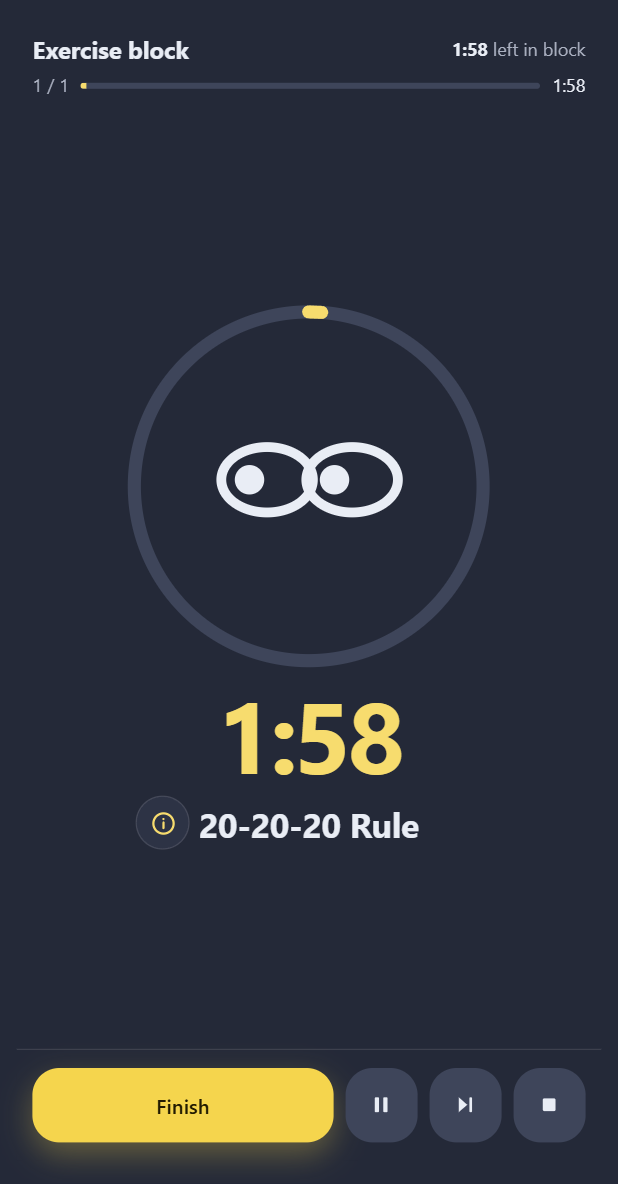
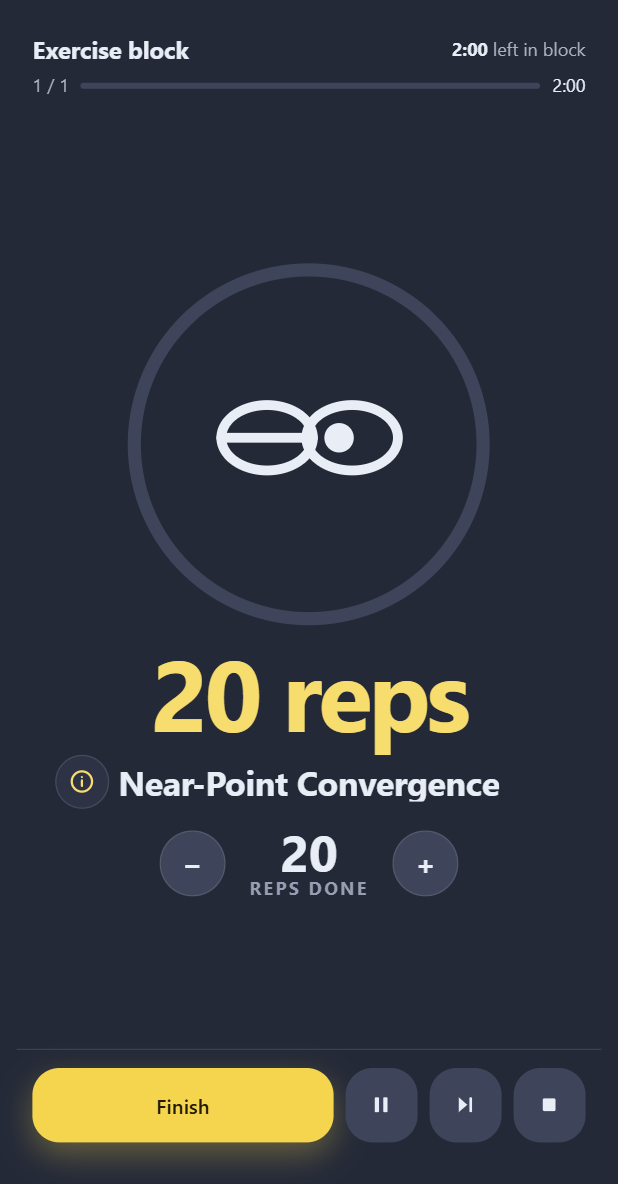
Flag dropdown for language; snack shots with figures; same eye-rest move per theme
The language link becomes a details menu with inline SVG flags; the FAQ
styles are scoped to .faq so they no longer leak into it. Snack shots are
captured without CDP so the exercise figure renders.

diff --git a/index.html b/index.html
@@ -28,7 +28,13 @@
     <nav>
       <a href="#features">Features</a>
       <a href="#faq">FAQ</a>
-      <a class="lang" href="index.es.html" lang="es" hreflang="es">Español</a>
+      <details class="lang-menu">
+        <summary aria-label="Language: English"><svg class="flag" viewBox="0 0 60 30" aria-hidden="true"><clipPath id="gbcs"><path d="M0 0v30h60V0z"/></clipPath><clipPath id="gbts"><path d="M30 15h30v15zv15H0zH0V0zV0h30z"/></clipPath><g clip-path="url(#gbcs)"><path d="M0 0v30h60V0z" fill="#012169"/><path d="M0 0l60 30m0-30L0 30" stroke="#fff" stroke-width="6"/><path d="M0 0l60 30m0-30L0 30" clip-path="url(#gbts)" stroke="#C8102E" stroke-width="4"/><path d="M30 0v30M0 15h60" stroke="#fff" stroke-width="10"/><path d="M30 0v30M0 15h60" stroke="#C8102E" stroke-width="6"/></g></svg><span>EN</span><svg class="chev" viewBox="0 0 24 24" fill="none" stroke="currentColor" stroke-width="2" stroke-linecap="round" stroke-linejoin="round" aria-hidden="true"><path d="m6 9 6 6 6-6"/></svg></summary>
+        <ul>
+          <li><a href="index.html" lang="en" hreflang="en" aria-current="page"><svg class="flag" viewBox="0 0 60 30" aria-hidden="true"><clipPath id="gbc"><path d="M0 0v30h60V0z"/></clipPath><clipPath id="gbt"><path d="M30 15h30v15zv15H0zH0V0zV0h30z"/></clipPath><g clip-path="url(#gbc)"><path d="M0 0v30h60V0z" fill="#012169"/><path d="M0 0l60 30m0-30L0 30" stroke="#fff" stroke-width="6"/><path d="M0 0l60 30m0-30L0 30" clip-path="url(#gbt)" stroke="#C8102E" stroke-width="4"/><path d="M30 0v30M0 15h60" stroke="#fff" stroke-width="10"/><path d="M30 0v30M0 15h60" stroke="#C8102E" stroke-width="6"/></g></svg>English</a></li>
+          <li><a href="index.es.html" lang="es" hreflang="es"><svg class="flag" viewBox="0 0 60 40" aria-hidden="true"><path d="M0 0h60v40H0z" fill="#AA151B"/><path d="M0 10h60v20H0z" fill="#F1BF00"/></svg>Español</a></li>
+        </ul>
+      </details>
       <button class="theme-toggle" type="button" aria-label="Dark theme" aria-pressed="false">
         <svg class="moon" viewBox="0 0 24 24" fill="none" stroke="currentColor" stroke-width="2" stroke-linecap="round" stroke-linejoin="round" aria-hidden="true"><path d="M21 12.8A9 9 0 1 1 11.2 3a7 7 0 0 0 9.8 9.8z"/></svg>
         <svg class="sun" viewBox="0 0 24 24" fill="none" stroke="currentColor" stroke-width="2" stroke-linecap="round" stroke-linejoin="round" aria-hidden="true"><circle cx="12" cy="12" r="4"/><path d="M12 2v2M12 20v2M4.9 4.9l1.4 1.4M17.7 17.7l1.4 1.4M2 12h2M20 12h2M4.9 19.1l1.4-1.4M17.7 6.3l1.4-1.4"/></svg>
@@ -101,8 +107,8 @@
         </ul>
       </div>
       <div class="shot">
-        <img class="phone light-only" src="img/en/light/snack.png" width="618" height="1184" loading="lazy" alt="The snack screen: a deep squat for 60 seconds, a swap button, the Bite, Plate and À la carte options, and Start.">
-        <img class="phone dark-only" src="img/en/dark/snack.png" width="618" height="1184" loading="lazy" alt="The snack screen: a deep squat for 60 seconds, a swap button, the Bite, Plate and À la carte options, and Start.">
+        <img class="phone light-only" src="img/en/light/snack.png" width="618" height="1184" loading="lazy" alt="The snack screen: shoulder CARs for 60 seconds, a swap button, the Bite, Plate and À la carte options, and Start.">
+        <img class="phone dark-only" src="img/en/dark/snack.png" width="618" height="1184" loading="lazy" alt="The snack screen: a walking figure-4 for 60 seconds, a swap button, the Bite, Plate and À la carte options, and Start.">
       </div>
     </div>
 
@@ -168,8 +174,8 @@
         </ul>
       </div>
       <div class="shot">
-        <img class="phone light-only" src="img/en/light/eye-rest.png" width="618" height="1184" loading="lazy" alt="An eye-rest block running: deliberate blinking, 60 reps.">
-        <img class="phone dark-only" src="img/en/dark/eye-rest.png" width="618" height="1184" loading="lazy" alt="An eye-rest block running: deliberate blinking, 60 reps.">
+        <img class="phone light-only" src="img/en/light/eye-rest.png" width="618" height="1184" loading="lazy" alt="An eye-rest block running: near-point convergence, 20 reps.">
+        <img class="phone dark-only" src="img/en/dark/eye-rest.png" width="618" height="1184" loading="lazy" alt="An eye-rest block running: near-point convergence, 20 reps.">
       </div>
     </div>
 

diff --git a/site.css b/site.css
@@ -130,6 +130,54 @@ p { text-wrap: pretty; }
   .btn.ghost:hover, .theme-toggle:hover { box-shadow: inset 0 0 0 1px var(--ink-3); }
 }
 
+/* Language menu: a native disclosure, so it opens with Enter/Space and works without JS */
+.lang-menu { position: relative; }
+.lang-menu summary {
+  display: flex;
+  align-items: center;
+  gap: 6px;
+  min-height: 40px;
+  padding: 0 10px;
+  border: 1px solid var(--line);
+  border-radius: 999px;
+  color: var(--ink);
+  font-weight: 600;
+  cursor: pointer;
+  list-style: none;
+}
+.lang-menu summary::-webkit-details-marker { display: none; }
+.flag { width: 20px; height: 14px; border-radius: 2px; flex: none; box-shadow: 0 0 0 1px rgb(0 0 0 / 0.1); }
+.chev { width: 16px; height: 16px; color: var(--ink-2); }
+.lang-menu[open] .chev { rotate: 180deg; }
+.lang-menu ul {
+  position: absolute;
+  right: 0;
+  top: calc(100% + 8px);
+  min-width: 160px;
+  margin: 0;
+  padding: 6px;
+  list-style: none;
+  border: 1px solid var(--line);
+  border-radius: 14px;
+  background: var(--card);
+  box-shadow: var(--card-shadow);
+}
+.lang-menu li a {
+  display: flex;
+  align-items: center;
+  gap: 10px;
+  min-height: 40px;
+  padding: 0 10px;
+  border-radius: 8px;
+  color: var(--ink);
+  text-decoration: none;
+}
+.lang-menu li a[aria-current="page"] { background: var(--surface-2); font-weight: 650; }
+@media (hover: hover) {
+  .lang-menu summary:hover { box-shadow: inset 0 0 0 1px var(--ink-3); }
+  .lang-menu li a:hover { background: var(--surface-2); }
+}
+
 /* Hero */
 .hero { display: grid; grid-template-columns: 1.1fr 0.9fr; gap: 48px; align-items: center; padding: 72px 0 56px; }
 .pill {
@@ -242,12 +290,12 @@ html:not(.js) .panel + .panel { margin-top: 72px; }
 
 /* FAQ */
 .faq { max-width: 760px; }
-details { border-bottom: 1px solid var(--line); padding: 18px 0; }
-summary { cursor: pointer; font-weight: 650; font-size: 1.125rem; list-style: none; display: flex; justify-content: space-between; gap: 16px; }
-summary::-webkit-details-marker { display: none; }
-summary::after { content: "+"; color: var(--accent-ink); font-size: 1.375rem; line-height: 1; }
-details[open] summary::after { content: "\2212"; }
-details p { margin: 10px 0 0; max-width: 65ch; color: var(--ink-2); }
+.faq details { border-bottom: 1px solid var(--line); padding: 18px 0; }
+.faq summary { cursor: pointer; font-weight: 650; font-size: 1.125rem; list-style: none; display: flex; justify-content: space-between; gap: 16px; }
+.faq summary::-webkit-details-marker { display: none; }
+.faq summary::after { content: "+"; color: var(--accent-ink); font-size: 1.375rem; line-height: 1; }
+.faq details[open] summary::after { content: "\2212"; }
+.faq details p { margin: 10px 0 0; max-width: 65ch; color: var(--ink-2); }
 
 /* Footer */
 footer { margin-top: 96px; padding: 40px 0 56px; border-top: 1px solid var(--line); font-size: 0.875rem; color: var(--ink-3); }
@@ -259,7 +307,7 @@ footer p { margin: 6px 0; max-width: 46em; }
 a:focus-visible, button:focus-visible, summary:focus-visible { outline: 2px solid var(--accent-ink); outline-offset: 3px; }
 
 @media (max-width: 820px) {
-  .top nav a:not(.btn):not(.lang) { display: none; }
+  .top nav > a:not(.btn) { display: none; }
   .hero, .panel { grid-template-columns: 1fr; gap: 36px; }
   .hero { padding: 48px 0 40px; }
   .tabs { grid-template-columns: repeat(3, 1fr); }
@@ -280,7 +328,10 @@ a:focus-visible, button:focus-visible, summary:focus-visible { outline: 2px soli
 }
 
 @media (max-width: 400px) {
-  .brand > span { display: none; }
+  .brand > span, .lang-menu summary > span { display: none; }
+  .lang-menu ul { right: auto; left: 0; }
+  .top .wrap { gap: 8px; }
+  .top nav { gap: 6px; }
 }
 
 @media (prefers-reduced-motion: reduce) { html { scroll-behavior: auto; } }

diff --git a/index.es.html b/index.es.html
@@ -28,7 +28,13 @@
     <nav>
       <a href="#features">Funciones</a>
       <a href="#faq">Preguntas</a>
-      <a class="lang" href="index.html" lang="en" hreflang="en">English</a>
+      <details class="lang-menu">
+        <summary aria-label="Idioma: español"><svg class="flag" viewBox="0 0 60 40" aria-hidden="true"><path d="M0 0h60v40H0z" fill="#AA151B"/><path d="M0 10h60v20H0z" fill="#F1BF00"/></svg><span>ES</span><svg class="chev" viewBox="0 0 24 24" fill="none" stroke="currentColor" stroke-width="2" stroke-linecap="round" stroke-linejoin="round" aria-hidden="true"><path d="m6 9 6 6 6-6"/></svg></summary>
+        <ul>
+          <li><a href="index.html" lang="en" hreflang="en"><svg class="flag" viewBox="0 0 60 30" aria-hidden="true"><clipPath id="gbc"><path d="M0 0v30h60V0z"/></clipPath><clipPath id="gbt"><path d="M30 15h30v15zv15H0zH0V0zV0h30z"/></clipPath><g clip-path="url(#gbc)"><path d="M0 0v30h60V0z" fill="#012169"/><path d="M0 0l60 30m0-30L0 30" stroke="#fff" stroke-width="6"/><path d="M0 0l60 30m0-30L0 30" clip-path="url(#gbt)" stroke="#C8102E" stroke-width="4"/><path d="M30 0v30M0 15h60" stroke="#fff" stroke-width="10"/><path d="M30 0v30M0 15h60" stroke="#C8102E" stroke-width="6"/></g></svg>English</a></li>
+          <li><a href="index.es.html" lang="es" hreflang="es" aria-current="page"><svg class="flag" viewBox="0 0 60 40" aria-hidden="true"><path d="M0 0h60v40H0z" fill="#AA151B"/><path d="M0 10h60v20H0z" fill="#F1BF00"/></svg>Español</a></li>
+        </ul>
+      </details>
       <button class="theme-toggle" type="button" aria-label="Tema oscuro" aria-pressed="false">
         <svg class="moon" viewBox="0 0 24 24" fill="none" stroke="currentColor" stroke-width="2" stroke-linecap="round" stroke-linejoin="round" aria-hidden="true"><path d="M21 12.8A9 9 0 1 1 11.2 3a7 7 0 0 0 9.8 9.8z"/></svg>
         <svg class="sun" viewBox="0 0 24 24" fill="none" stroke="currentColor" stroke-width="2" stroke-linecap="round" stroke-linejoin="round" aria-hidden="true"><circle cx="12" cy="12" r="4"/><path d="M12 2v2M12 20v2M4.9 4.9l1.4 1.4M17.7 17.7l1.4 1.4M2 12h2M20 12h2M4.9 19.1l1.4-1.4M17.7 6.3l1.4-1.4"/></svg>
@@ -101,8 +107,8 @@
         </ul>
       </div>
       <div class="shot">
-        <img class="phone light-only" src="img/es/light/snack.png" width="618" height="1184" loading="lazy" alt="La pantalla de snack: una sentadilla profunda de 60 segundos, el botón para cambiarla, las opciones Bocado, Ración y A la carta, y Empezar.">
-        <img class="phone dark-only" src="img/es/dark/snack.png" width="618" height="1184" loading="lazy" alt="La pantalla de snack: una sentadilla profunda de 60 segundos, el botón para cambiarla, las opciones Bocado, Ración y A la carta, y Empezar.">
+        <img class="phone light-only" src="img/es/light/snack.png" width="618" height="1184" loading="lazy" alt="La pantalla de snack: una oruga (inchworm) de 60 segundos, el botón para cambiarla, las opciones Bocado, Ración y A la carta, y Empezar.">
+        <img class="phone dark-only" src="img/es/dark/snack.png" width="618" height="1184" loading="lazy" alt="La pantalla de snack: una flexión con rodilla al codo de 60 segundos, el botón para cambiarla, las opciones Bocado, Ración y A la carta, y Empezar.">
       </div>
     </div>
 

diff --git a/site.js b/site.js
@@ -40,4 +40,18 @@
   });
 
   if (tabs.length) select(tabs[0], false);
+
+  // Close the language menu on Escape or a click outside it, returning focus on Escape.
+  var langMenu = document.querySelector('.lang-menu');
+  if (langMenu) {
+    document.addEventListener('click', function (e) {
+      if (langMenu.open && !langMenu.contains(e.target)) langMenu.open = false;
+    });
+    document.addEventListener('keydown', function (e) {
+      if (e.key === 'Escape' && langMenu.open) {
+        langMenu.open = false;
+        langMenu.querySelector('summary').focus();
+      }
+    });
+  }
 })();
